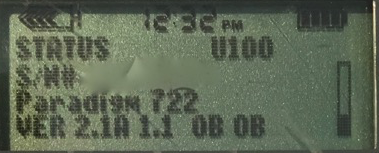
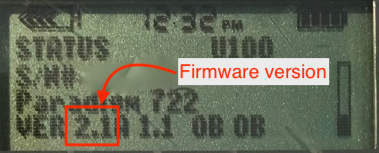
Pump error messages/troubleshooting

Changed region(s): [[0.1451, 0.366, 0.8707, 0.9673]]

diff --git a/docs/setup/requirements/pump.md b/docs/setup/requirements/pump.md
@@ -6,6 +6,9 @@ There are a number of insulin pumps manufactured between 2006 – 2012 by Medtro
 
 The Loop-compatible pumps are as follows:
 
+!!!info ""
+    HINT: The 515/715 and 522/722 pumps are all compatible.  However, the 523/723 and 554/754 pumps will require you to check the firmware to see if the pump is Loop compatible.  See the footnotes 3 and 4 for the required firmwares.
+
 <table>
   <thead>
     <tr>
@@ -64,28 +67,58 @@ To determine your pump model, look at the back side of your pump.  There should 
 
 ![Pump](img/pump_model.jpg)
 
-In the example above, it says the pump model is:  MMT-722NAS
-
 ```
-MMT         Pump Manufacturer Model (MiniMed Medtronic)
-722         Pump Model Number
-NA          Pump Region (NA=North America, CA=Canada/Australia, WW=Worldwide)
-S           Pump Color (S=Smoke, L=Clear/Lucite, B=Blue, P=Pink/Purple)
+    MMT       Pump Manufacturer Model (MiniMed Medtronic)
+    722       Pump Model Number
+    NA        Pump Region (NA=North America, CA=Canada/Australia, WW=Worldwide)
+    S         Pump Color (S=Smoke, L=Clear/Lucite, B=Blue, P=Pink/Purple)
 ```
 
-Some pumps may have an “L” or “S” or "R" before the pump region, e.g. a model number like MMT-LNAS.  This does not affect Loop compatibility.
+Some pumps may have an “L” or “S” or "R" before the pump region, e.g. a model number like MMT-722LNAS.  This does not affect Loop compatibility.
 
-The difference between the Medtronic 500 series and the 700 series pumps is the size of the insulin reservoirs.  The 500 series pumps use a 180 unit reservoir, and the 700 series pumps use a 300 unit reservoir (or smaller 180 unit reservoir, if you want).
 
-The differences between Medtronic x22 pumps and x23/x54 pumps are primarily three features.  
+## Pump Differences
+The  differences between the pump models are limited.
 
-* The x23/x54 pumps will allow for increments of 0.025 units, whereas the x22 pumps have larger increments of 0.05 units.  Loop will have the insulin delivery automatically rounded by the pump to the units available in the pump model, and any smaller adjustments (to make up for the rounding) will be made through Loop’s use of temp basals.  
+<font color ="orange">500 vs 700</font>:  The difference between the Medtronic 500 series and the 700 series pumps is the size of the insulin reservoirs.  The 500 series pumps use a 180 unit reservoir, and the 700 series pumps use a 300 unit reservoir (or smaller 180 unit reservoir, if you want).
 
-* Additionally, because of the way Loop fetches information from the pump, the x23/x54 series of pumps are slightly better at conserving battery life through the use of the MySentry.  x22 pumps do not use MySentry.  
+<font color ="orange">x15/x22 vs x23/x54</font>:  The difference between the x15 and x22 pumps versus the x23 and x54 series pumps has only a few notable mentions:
 
-* The x23/x54 series pumps are also faster at delivering large boluses (up to several times faster for boluses > 10 units).
+* The x23/x54 pumps will allow for smaller insulin deliveries in certain situations, if the smaller scroll rate is selected in the Bolus>Setup>Scroll Rate menu.  **Loop will have the insulin delivery automatically rounded by the pump to the units available in the pump model, and any smaller adjustments (to make up for the rounding) will be made through Loop’s use of temp basals.  If you want the smaller increments of basal rates, you can still enter those values in Loop app's settings and Loop will use those values for the purposes of insulin delivery calculations.**
+
+<table>
+<thead>
+<tr>
+<th>Pump Model</th>
+<th>Basal increments</th>
+<th>Bolus increments</th>
+<th>Range</th>
+</tr>
+</thead>
+<tbody>
+<tr>
+<th>515/715</br>and</br>522/722</th>
+<td>0.05</br>0.1</td>
+<td>0.1</br>0.1</td>
+<td>deliveries less than 10 units</br>greater than 10 units</td>
+</tr>
+<tr>
+<th>523/723</br>and</br>554/754</th>
+<td>0.025</br>0.05</br>0.1</td>
+<td>0.025 </br>0.05 </br>0.1</td>
+<td>between 0.025 to 0.975 units</br>between 1 to 9.95 units</br>greater than 10 units</td>
+</tr>
+</tbody>
+</table>
+
+* Additionally, because of the way Loop fetches information from the pump, the x23/x54 series of pumps are slightly better at conserving battery life through the use of the MySentry packets to collect information from the pump.  x22 pumps do not use MySentry.
+
+* The x23/x54 series pumps are also faster at delivering boluses greater than 10 units.  On an x23 pump, a 13-unit bolus takes 5:00 minutes to complete.  On an x22 pump, a 13-unit bolus takes 8:40 minutes to complete.
 
 ## Pump Firmware
+
+!!!info ""
+    If you are looking to use a 523/723 or 554/754 pump, you will need to check the firmware version for compatibility.
 
 A pump’s firmware is the internal software that runs your pump.  Older Medtronic firmware allows Loop to act as a “remote control” to set temp basals and report back pump data.  Newer firmware disabled that “remote control” access and therefore cannot be used with these DIY closed-loop systems.  There is currently no ability to downgrade a pump’s firmware or replace it with older firmware.  Before you buy a used pump, make sure you are getting one with compatible firmware.
 
@@ -109,7 +142,7 @@ While we all would love to have our {insert your favorite manufacturer} pump be 
 
 Finding a compatible Medtronic pump is probably the most difficult part for most new Loopers.  Our suggestion:
 
-* Talk to friends in the diabetic community.  
+* Talk to friends in the diabetic community.
 
 * Ask your endocrinologist.  
 
@@ -117,9 +150,15 @@ Finding a compatible Medtronic pump is probably the most difficult part for most
 
 * Join diabetic supply groups in Facebook; both for-trade and for-sale groups.  
 
-* Check Craigslist often and be willing to expand your search area to include larger cities.  
+* Check Craigslist often and be willing to expand your search area to include larger cities.
+
+* Check out the **HelpAround, NextDoor, OfferUp, and/or LetGo** apps for pumps.
 
 * Search [Medwow](http://medwow.com) for used Medtronic pumps
+
+Medwow has been fairly frustrating for most people; poor response rate, high prices.  The most success appears to come from either one-on-one discussions with fellow diabetics/doctors or using apps (Craigslist, NextDoor, LetGo, HelpAround).  If you are using Craigslist, you may wish to use an app on your iPhone to make the searching easier.  There are apps to search multiple cities at one for your keywords and set up alerts.
+
+![Craigslist](img/craigslist.png)
 
 ## Safe Purchasing
 

diff --git a/docs/troubleshooting/pump-errors.md b/docs/troubleshooting/pump-errors.md
@@ -1,0 +1,92 @@
+# Pump Errors
+
+The pumps are used and not under warranty.  Use this section at your own risk.  However, that said, some of the most common pump errors are repairable, or not actually a real problem.
+
+## A21 error
+
+This error message is common when a pump has been stored for a period of time without a battery.  Most pumps will show an A21 error when you first purchase them on the used market.  Not a big deal.  Press the down arrow (also has the symbol of a light bulb on it) and the pump screen message will scroll down to let you know how to clear that error message (press ESC then ACT).  If the message is coming up on a pump that hasn't been in storage, pull the battery out and replace with a fresh, new battery.  Chances are your battery or battery cap are old.  Look for signs of dirt or rust in the battery cap, give it a little cleaning.
+
+!!!info "Display Tip"
+    When the pump screen has a little black/white bar on the right side, that is a scroll bar.  Use the arrow keys on the right of the the pump screen to scroll and see the additional information.
+
+<p align="center">
+<img src="../img/A21.jpg" width="400">
+</p>
+
+## Batt Out Limit
+
+This error message "battery out of limits" has to do with the internal pump battery, not the AAA battery you replace.  The internal battery cannot be replaced, and unfortunately also has a finite lifespan.  The error message is more of an annoyance than a true problem.  You can try to change the AAA battery faster.  But, the worst case scenario is that you'll have to re-enter the time and date when you get this message more often.  (Don't forget to use RileyLink to set the time after you get this message.)
+
+<p align="center">
+<img src="../img/batt-out.jpg" width="400">
+</p>
+
+
+## Button Error
+
+The Button Error message usually happens from water, moisture, or dust getting under the pump's button pad and causing button(s) to fail.  The fix luckily is quite straight-forward and takes less than 30 minutes.  Check out the fix [here for a YouTube video]('troubleshooting/time-change.md') or [here for photo gallery](https://imgur.com/a/iOXAP)
+
+<p align="center">
+<img src="../img/button-error.jpg" width="400">
+</p>
+
+The solution involves simply prying up the button pad's sticker face to expose the layers beneath.
+
+<p align="center">
+<img src="../img/button-fix.jpg" width="400">
+</p>
+
+You can see some evidence of crud/rust on the underside of this button pad which caused the button error.
+
+<p align="center">
+<img src="../img/dirty-button.jpg" width="400">
+</p>
+
+After you finish your fix, another excellent idea is to make sure you add a length of clear packing tape across the front face of the pump to prevent errant water or dirt from having easy access to the button pad seams.
+
+<p align="center">
+<img src="../img/taped-pump.jpg" width="400">
+</p>
+
+## Motor error
+
+Often a motor error is the result of a poorly seated reservoir or tubing cap.  If you get a motor error, the first thing you should do is detech from your infusion site.  Remove and reseat the reservoir, prime again, and see if the motor error resolves.  If it does not, try replacing the tubing cap on the reservoir (new tubing).  If that does not resolve the motor error, also replace the entire reservoir.
+
+<p align="center">
+<img src="../img/motor-error.jpg" width="400">
+</p>
+
+## A33 error
+
+!!!warning "Safety warning"
+    If you get this error, DO NOT push on the bulged out end cap.  Always detach your tubing from your infusion set before addressing this error message.  If you push on the end cap in an attempt to get it back flush, you may delivery a dangerous amount of insulin mistakenly.
+
+This error is a bit more involved to repair.  The problem is that there is a loose drive support cap.  Most of the time this error message will appear during a priming event as the end cap of the drive will slip, releasing the ability of the reservoir plunger to get pressure to delivery insulin.  The pump senses the lack of pressure and delivers the A33 error.
+
+<p align="center">
+<img src="../img/A33-2.jpg" width="400">
+</p>
+
+<p align="center">
+<img src="../img/A33.jpg" width="400">
+</p>
+
+The solution is to UNHOOK from your site.  See warning above.  Remove reservoir and put your finger inside the reservoir sleeve.  Push on the drive so that the end cap is pushed out the most possible.  This will give your the most surface area possible to place the super glue GEL that you will use.  (don't use regular super glue...it must be gel.)  Remove the sticker that covers the end cap, save it for later because you can reattach when repair is completed.
+
+With the end cap pushed out, take some glue gel with the toothpick and apply it on the outside of the popped out cap . Be generous cause you can do this only once . Once you are done take a napkin and press hard the cap toward the pump so it can go back inside and keep it pressed for a few seconds. Then remove all the small parts of the napkin that has glued to the pump. Leave the pump to dry for about 10-15 minutes.
+
+<p align="center">
+<img src="../img/A33-4.jpg" width="400">
+</p>
+
+Now to test whether the pumps was glued well. You have already waited about 10-15 minutes so put your finger back in and press hard the plunger.  If you glued it well, the end cap will not move.  If the cap goes out again, you have to glue one more time. If all looks well, put some glue back on top of the pump cap and reattach the sticker that was removed to start.
+
+## A32 and E22 error loop
+
+From what we know, this set of error codes seems like a pump killer.  A call to Medtronic support gave this less than hopeful information:
+
+A32 - failure of flash memory
+E22 - software re-installation is necessary
+
+We don't have any reports of a good fix for these error codes.  When seen, usually the E22 error comes up and as soon as it is cleared, the A32 errror comes up.  And the loop continues with a pump restart.
+
